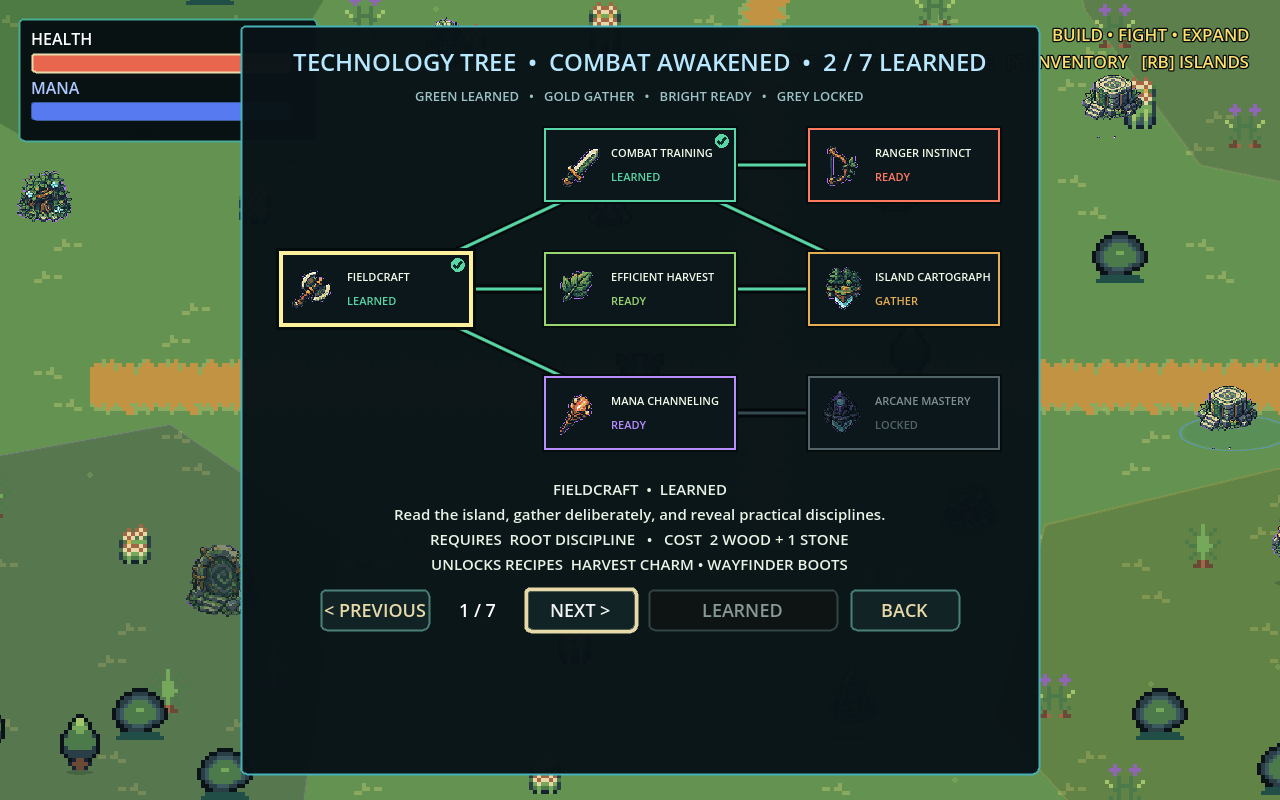
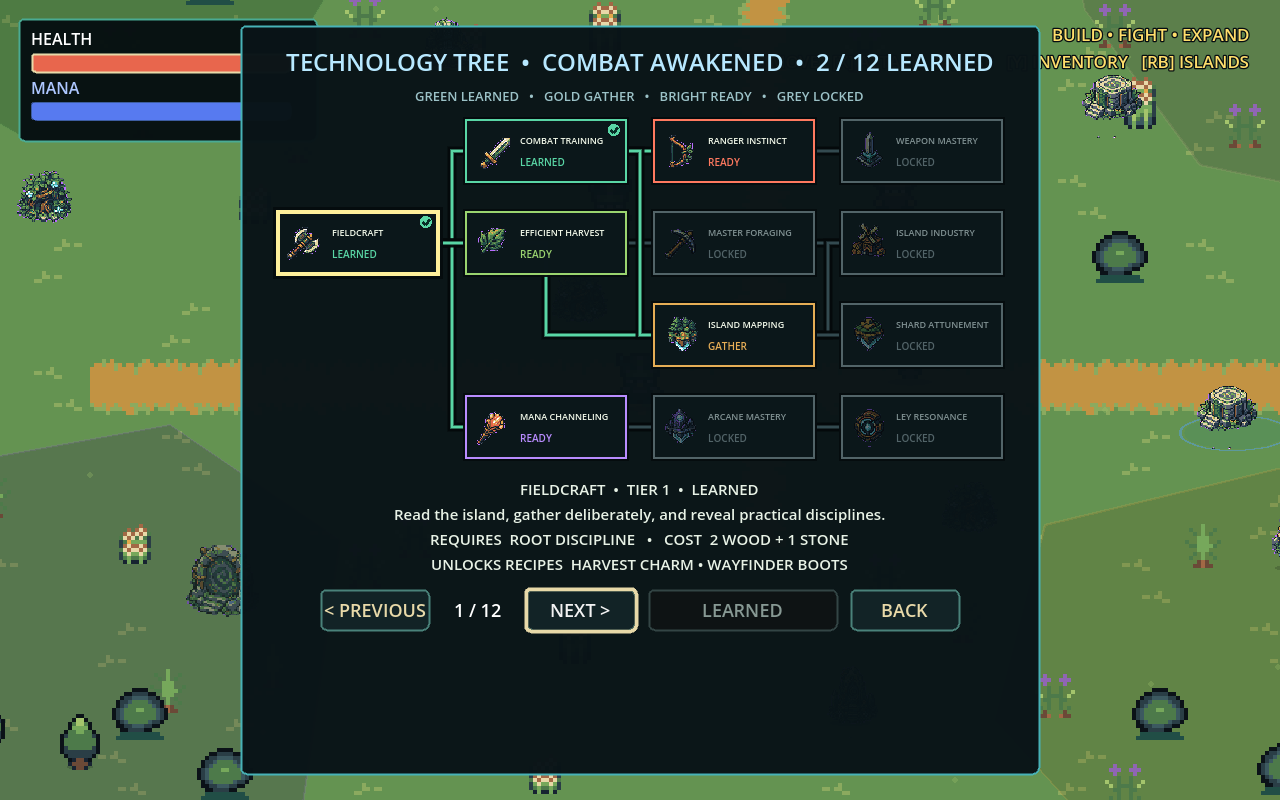
Impr

diff --git a/docs/product/vertical-slice.md b/docs/product/vertical-slice.md
@@ -4,9 +4,9 @@ The target slice covers movement, gathering, combat, procedural equipment, craft
 
 ## Current milestone
 
-The opening now begins as a deliberate exploration phase: authored arena enemies are dormant while the player learns the terrain, gathers the initial tree and stone, and meets two non-combat residents. The inventory contains a dedicated visual seven-node technology graph with icons, branch connections, state colors, detailed descriptions, and explicit recipe rewards. Fieldcraft is the first discipline; prerequisite-bound Combat Training is the second unlock and awakens threats once through an event-driven world transition. Existing schema-6 saves migrate with both opening technologies learned so established games do not unexpectedly lose combat access.
+The opening now begins as a deliberate exploration phase: authored arena enemies are dormant while the player learns the terrain, gathers the initial tree and stone, and meets two non-combat residents. The inventory contains a dedicated visual twelve-node, four-tier technology graph with icons, routed branch connections, state colors, detailed descriptions, and explicit recipe rewards. Fieldcraft is the first discipline; prerequisite-bound Combat Training is the second unlock and awakens threats once through an event-driven world transition. Later tiers deepen weapon, foraging/industry, island, and arcane paths. Existing schema-6 saves migrate with both opening technologies learned so established games do not unexpectedly lose combat access.
 
-The field HUD is reduced to bounded health and mana bars. Resources, derived combat/gathering values, equipment, and technology decisions live together in the controller-first inventory. Magic attacks spend regenerating mana, while bow and scepter loadouts show a directional range/impact preview and produce launch/cast feedback even when no target is hit. The island is divided into four dressed micro-biomes, twenty-eight solid edge landmarks, fifty ground details, seven living props, and two interactive residents. Narrow authored contact shadows plant actors, harvestables, residents, obstacles, and living props at their terrain contact rather than presenting them on detached oval platforms. Thirteen validated recipes add visible arcane, ranger, harvest, traversal, surveying, and tool-specialization rewards to the established crafting paths.
+The field HUD is reduced to bounded health and mana bars. Resources, derived combat/gathering/production values, equipment, and technology decisions live together in the controller-first inventory. Magic attacks spend regenerating mana, while bow and scepter loadouts show a directional range/impact preview and produce launch/cast feedback even when no target is hit. The island is divided into four dressed micro-biomes, twenty-eight solid edge landmarks, fifty ground details, seven living props, and two interactive residents. Contact shadows overlap the authored sprite baseline by no more than ten pixels, planting actors, harvestables, residents, obstacles, and living props without a visible air gap. Eighteen validated recipes add visible arcane, ranger, harvest, traversal, surveying, tool, shard, and production-specialization rewards to the established crafting paths.
 
 The cohesive-world pass uses Shade's reviewed CC0 Puny family for one main hero, melee/ranged/caster enemies, terrain, trees, and flora. The hero preserves eight authored directions plus idle, walk, sword, bow, staff/magic, throw, hurt, and death motion on one 32px body sheet. One deterministic transform enforces a 16-color binary-alpha runtime palette without mirroring or synthesizing actor frames. The normal 1280x800 HUD stays inside its compact safe area, and old procedural weapon lines remain replaced by authored clips, physical projectiles, and bounded hit VFX.
 
@@ -18,7 +18,7 @@ The shared Legendary lifecycle is duplicate-safe and exposes attack/hit/critical
 
 Repository-side acceptance is complete only after full validation/export evidence and independent review are recorded. The physical Steam Deck/controller feel test and subjective voluntary play-style change remain human product gates and must not be inferred from desktop automation.
 
-M4 proves crafting, a compact base, and automation. The original five data-driven workbench recipes include three useful permanent objects and two placeable building kits; the current slice extends the same registry to thirteen recipes. Three advanced technology rewards—Precision Quiver, Forester's Toolkit, and Surveyor's Lens—apply authored attack-speed, gathering-power, and pickup-radius effects. Four stable sockets provide controller-first preview, rotation, invalid-zone feedback, atomic placement, and preview-free persistence.
+M4 proves crafting, a compact base, and automation. The original five data-driven workbench recipes include three useful permanent objects and two placeable building kits; the current slice extends the same registry to eighteen recipes. Advanced rewards now affect attack speed, reliable damage, critical chance, gathering power, pickup radius, mana capacity, movement, and production speed. Precision Gearbox scales the same bounded elapsed-time input for live and offline mill work rather than introducing a second simulation path. Four stable sockets provide controller-first preview, rotation, invalid-zone feedback, atomic placement, and preview-free persistence.
 
 The Tasks 16-30 conformance pass hardens the retained M1/M2 loop: seeded optional drops, canonical item identity and validation, physical bow projectiles, complete affix eligibility diagnostics, atomic equipment/salvage events, pure item presentation, same-slot comparison, and destructive confirmation. Repository-side checks are complete; the source task's real Steam Deck controller playtest remains a human hardware gate.
 

diff --git a/docs/exec-plans/active/0021-ground-contact-and-progression-depth.md b/docs/exec-plans/active/0021-ground-contact-and-progression-depth.md
@@ -1,0 +1,45 @@
+# Ground Contact and Progression Depth
+
+## Goal
+
+Correct the remaining detached-sprite appearance and extend the current vertical slice with a coherent second progression tier rather than disconnected content volume.
+
+## Assumptions
+
+- The visible gap is caused by shadow centers authored below the actual sprite baseline; opacity alone cannot fix it.
+- Existing resources, workbench, save dictionary, technology transaction, and icon atlas are sufficient. No new dependency or save schema is required.
+- Deeper progression should reinforce combat, gathering, magic, island exploration, and compact automation with visible, testable effects.
+
+## Acceptance criteria
+
+- Every shared contact-shadow profile is centered no more than ten pixels below its owning ground origin.
+- Dynamic obstacle shadows use the same bounded contact baseline.
+- A new 1280x800 world capture shows no visible air gap between representative sprites and their shadows.
+- The technology graph contains twelve validated nodes arranged across four tiers and four disciplines.
+- Five new late technologies have real direct effects and each names one new recipe unlock.
+- The workbench contains eighteen validated recipes total.
+- Duelist Grip, Reinforced Axe, Precision Gearbox, Shard Prism, and Ley Capacitor have distinct, persisted gameplay effects.
+- Production-speed progression affects both live and offline mill simulation through the existing bounded automation path.
+- Inventory statistics expose production speed; the visual tree remains readable and controller-first at 1280x800.
+
+## Test-first plan
+
+- Tighten `contact_shadow_profile_test.gd` to assert the actual contact baseline.
+- Extend `progression_mana_test.gd` to assert twelve graph nodes, eighteen recipes, and all five late unlock links.
+- Extend the exploration/progression integration route to exercise every new crafted-effect consumer and production-speed scaling.
+- Keep all existing deterministic suites unchanged except for authored count expectations.
+
+## Status
+
+Complete.
+
+## Verification
+
+- `test-unit`: 555 assertions, 0 failures.
+- `test-integration`: 393 assertions, 0 failures.
+- `validate`: 26 static checks and 1,043 total assertions, 0 failures.
+- `export-windows`: completed with exit code 0.
+- Exported `ShardboundIsles.exe` smoke-launched at 1280x800 and exited normally with code 0.
+- Reviewed `grounded-contact-shadows-1280x800.png`, `visual-technology-tree-1280x800.png`, and `inventory-technology-1280x800.png` for grounding, clipping, hierarchy, and controller-visible actions.
+
+The Windows environment continues to emit Godot's non-fatal root-certificate-store diagnostic during startup and export; no online feature is required by the game.

diff --git a/docs/design/user-interface.md b/docs/design/user-interface.md
@@ -12,7 +12,7 @@ The equipment modal browses every collected item with Previous/Next controls and
 
 The workbench modal browses the validated recipe registry with a position indicator. It shows the selected permanent effect, owned versus required resources, affordability, and success or rejection feedback. When a recipe is unaffordable, focus starts on recipe browsing; completion moves focus to an unlocked action. Only one modal can be open, and closing restores gameplay.
 
-The normal play HUD deliberately contains no game-name banner and no numeric resource, equipment, or derived-stat list. It retains only compact, percentage-free health and mana bars plus contextual objective/interaction feedback. The inventory owns the complete numeric summary (resources, salvage, health, mana/regeneration, damage, speed, critical chance, gathering power, and pickup radius) and item comparison. Its dedicated technology sub-page renders the complete seven-node graph with semantic icons, prerequisite connections, and learned/ready/gather/locked states. Previous/Next browsing remains controller-first; the selected node always names its effect, prerequisites, exact cost, and craftable recipe unlocks before confirmation. Back returns focus to the inventory entry point.
+The normal play HUD deliberately contains no game-name banner and no numeric resource, equipment, or derived-stat list. It retains only compact, percentage-free health and mana bars plus contextual objective/interaction feedback. The inventory owns the complete numeric summary (resources, salvage, health, mana/regeneration, damage, speed, critical chance, gathering power, pickup radius, and production speed) and item comparison. Its dedicated technology sub-page renders the complete twelve-node graph across four tiers with semantic icons, routed prerequisite connections, and learned/ready/gather/locked states. Previous/Next browsing remains controller-first; the selected node always names its tier, full effect, prerequisites, exact cost, and craftable recipe unlocks before confirmation. Back returns focus to the inventory entry point.
 
 The system modal exposes a single local Save and Load slot, displays schema version 5 and explicit results, and focuses Save when opened. Opening it suspends movement, combat, and production. It requires no pointer or text entry.
 

diff --git a/docs/design/crafting-base-automation.md b/docs/design/crafting-base-automation.md
@@ -8,7 +8,7 @@ M4 turns manually gathered resources into a compact, optional labor-saving base.
 
 `RecipeRegistry` owns authored inputs, outputs, station IDs, unlock requirements, uniqueness, display names, and effects. `CraftingService.evaluate` returns an immutable transaction plan: all requirements and output capacity are checked before it describes any deduction. Unknown resource, output, station, and unlock IDs fail validation.
 
-The controller workbench browses five registry entries. Reinforced Heart, Runed Whetstone, and Herbal Compass are the first three useful permanent objects. Lumber Mill Kit and Collector Kit enter placement after a successful atomic craft. Missing resources and locked requirements are shown explicitly.
+The controller workbench browses eighteen registry entries. Reinforced Heart, Runed Whetstone, and Herbal Compass are the first three useful permanent objects. Lumber Mill Kit and Collector Kit enter placement after a successful atomic craft. Technology paths add mana, ranger, foraging, traversal, damage, shard, and production recipes; each authored unlock names a concrete effect before purchase. Missing resources and locked requirements are shown explicitly.
 
 ## Placement
 
@@ -24,7 +24,7 @@ Shared storage holds 24 total units. Every add reports accepted and remainder qu
 
 The workbench exposes focused `Deposit All Wood` and `Collect Planks` actions, making the first mill usable before a collector exists. Buttons show current quantities and disable when no transfer can occur.
 
-Live automation runs on a 0.5-second timer, not per-building or per-target frame callbacks. Offscreen/offline work uses the same deterministic batch rules, clamps negative elapsed time to zero, caps catch-up at four hours, and is always bounded again by input/output/storage capacity.
+Live automation runs on a 0.5-second timer, not per-building or per-target frame callbacks. Offscreen/offline work uses the same deterministic batch rules, clamps negative elapsed time to zero, caps catch-up at four hours, and is always bounded again by input/output/storage capacity. Island Industry and Precision Gearbox multiply the shared effective elapsed-time input, so the production upgrade behaves identically online and offline without bypassing capacity limits.
 
 ## Item upgrades
 

diff --git a/docs/engineering/architecture.md b/docs/engineering/architecture.md
@@ -30,7 +30,7 @@ Sword and wand resolve their deterministic target shapes immediately. Bow attack
 
 The world composition root applies successful transactions and materializes `BaseBuildingVisual` projections. Collector, storage, and mill communicate through accepted/remainder quantities, so capacity boundaries cannot destroy resources. A single timer requests bounded batches; remote buildings never require independent per-frame callbacks. Save schema 7 owns the complete committed simulation state, learned technology IDs, and mana state and applies catch-up only after validation.
 
-`TechnologyTree` and `ManaPool` are Node-free authoritative rules. Technology definitions own stable graph coordinates, semantic icon IDs, prerequisites, and recipe-unlock IDs in addition to cost/effect data. `TechnologyTreeView` projects the complete graph and status colors; the HUD only browses view data and emits a learn request, never granting a technology or deducting costs. The world applies a successful transaction, recalculates derived effects, and changes enemy activity only on that event. `WeaponAimIndicator` and `WeaponCastVisual` are disposable presentation nodes and never perform targeting or damage. `ContactShadow` is a presentation-only profile/renderer shared by ground-bound actors and props; it has no collision or gameplay authority.
+`TechnologyTree` and `ManaPool` are Node-free authoritative rules. Technology definitions own stable graph coordinates, semantic icon IDs, prerequisites, and recipe-unlock IDs in addition to cost/effect data. `TechnologyTreeView` dynamically projects the authored four-tier graph and status colors; the HUD only browses view data and emits a learn request, never granting a technology or deducting costs. The world applies a successful transaction, recalculates derived effects, and changes enemy activity only on that event. Production bonuses scale the elapsed input entering the existing bounded `OfflineAutomation` path. `WeaponAimIndicator` and `WeaponCastVisual` are disposable presentation nodes and never perform targeting or damage. `ContactShadow` is a presentation-only profile/renderer shared by ground-bound actors and props; its validated local baseline prevents detached shadows and it has no collision or gameplay authority.
 
 ## Visual foundation
 

diff --git a/docs/engineering/testing-strategy.md b/docs/engineering/testing-strategy.md
@@ -24,4 +24,4 @@ M3 unit coverage validates the Node-free archipelago, deterministic neighbors, s
 
 M4 unit coverage validates registry IDs and atomic recipe plans; preview-free placement; FPS-independent mill conversion; collector rarity/ownership/radius/batch limits; safe overflow; clock rollback/four-hour cap; +0…+10 cost/power/preservation; and schema-5→6 migration. Integration performs controller placement and rotation, physical multi-building flow, rare/player-owned exclusions, blocked output, protected upgrade, and save/load continuation. The fixed M4 simulation repeats the full manual-resource→automation→upgrade route and prints `M4_METRICS`.
 
-The exploration-progression suite unit-tests mana bounds/regeneration, technology prerequisite/cost/restore invariants, graph/icon/recipe metadata, all thirteen recipe definitions, and bounded contact-shadow profiles. Integration verifies the title/stat HUD removal, inventory ownership of numbers, opening/focus/return behavior of the visual technology page, its seven rendered nodes and recipe descriptions, controller learning, dormant-to-awakened enemies, all three advanced crafted-stat consumers, dressed terrain/resident density, empty-space bow feedback, magic cost, and serialized technology/mana state. The fixed first-playable simulation now gathers the opening cost, learns both required technologies, and only then enters combat.
+The exploration-progression suite unit-tests mana bounds/regeneration, technology prerequisite/cost/restore invariants, twelve graph nodes with icon/recipe metadata, all eighteen recipe definitions, and contact-shadow profiles constrained to the sprite baseline. Integration verifies the title/stat HUD removal, inventory ownership of numbers, opening/focus/return behavior of the visual technology page, its twelve rendered nodes and recipe descriptions, controller learning, dormant-to-awakened enemies, advanced combat/gathering/mana/production crafted-effect consumers, shared live/offline production scaling, dressed terrain/resident density, empty-space bow feedback, magic cost, and serialized technology/mana state. The fixed first-playable simulation now gathers the opening cost, learns both required technologies, and only then enters combat.
